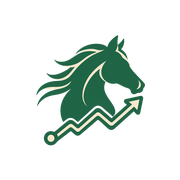
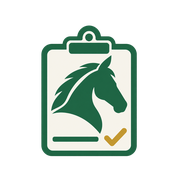
競馬カルテのロゴ（Codex生成A案）を反映：ファビコン・ヘッダー・共有画像
Claude-Session: https://claude.ai/code/session_01LsjZ5ymxaEkqGoAKdqdwBg

Changed region(s): [[0.1944, 0.1389, 0.8056, 0.8889]]

diff --git a/site/og.py b/site/og.py
@@ -95,7 +95,13 @@ def race_image(out: Path, date_txt: str, label: str, meta: str, marks: list[tupl
 def site_image(out: Path, title: str, lines: list[str]) -> None:
     im = canvas()
     d = ImageDraw.Draw(im)
-    d.text((76, 70), "競馬カルテ", font=font(64), fill=GREEN)
+    logo = HERE / "assets" / "logo-mark.png"
+    x = 76
+    if logo.exists():
+        lg = Image.open(logo).convert("RGBA").resize((92, 92), Image.LANCZOS)
+        im.paste(lg, (72, 62), lg)
+        x = 180
+    d.text((x, 70), "競馬カルテ", font=font(64), fill=GREEN)
     d.text((80, 160), title, font=fit(d, title, 38, 640), fill=INK)
     y = 240
     for ln in lines:
